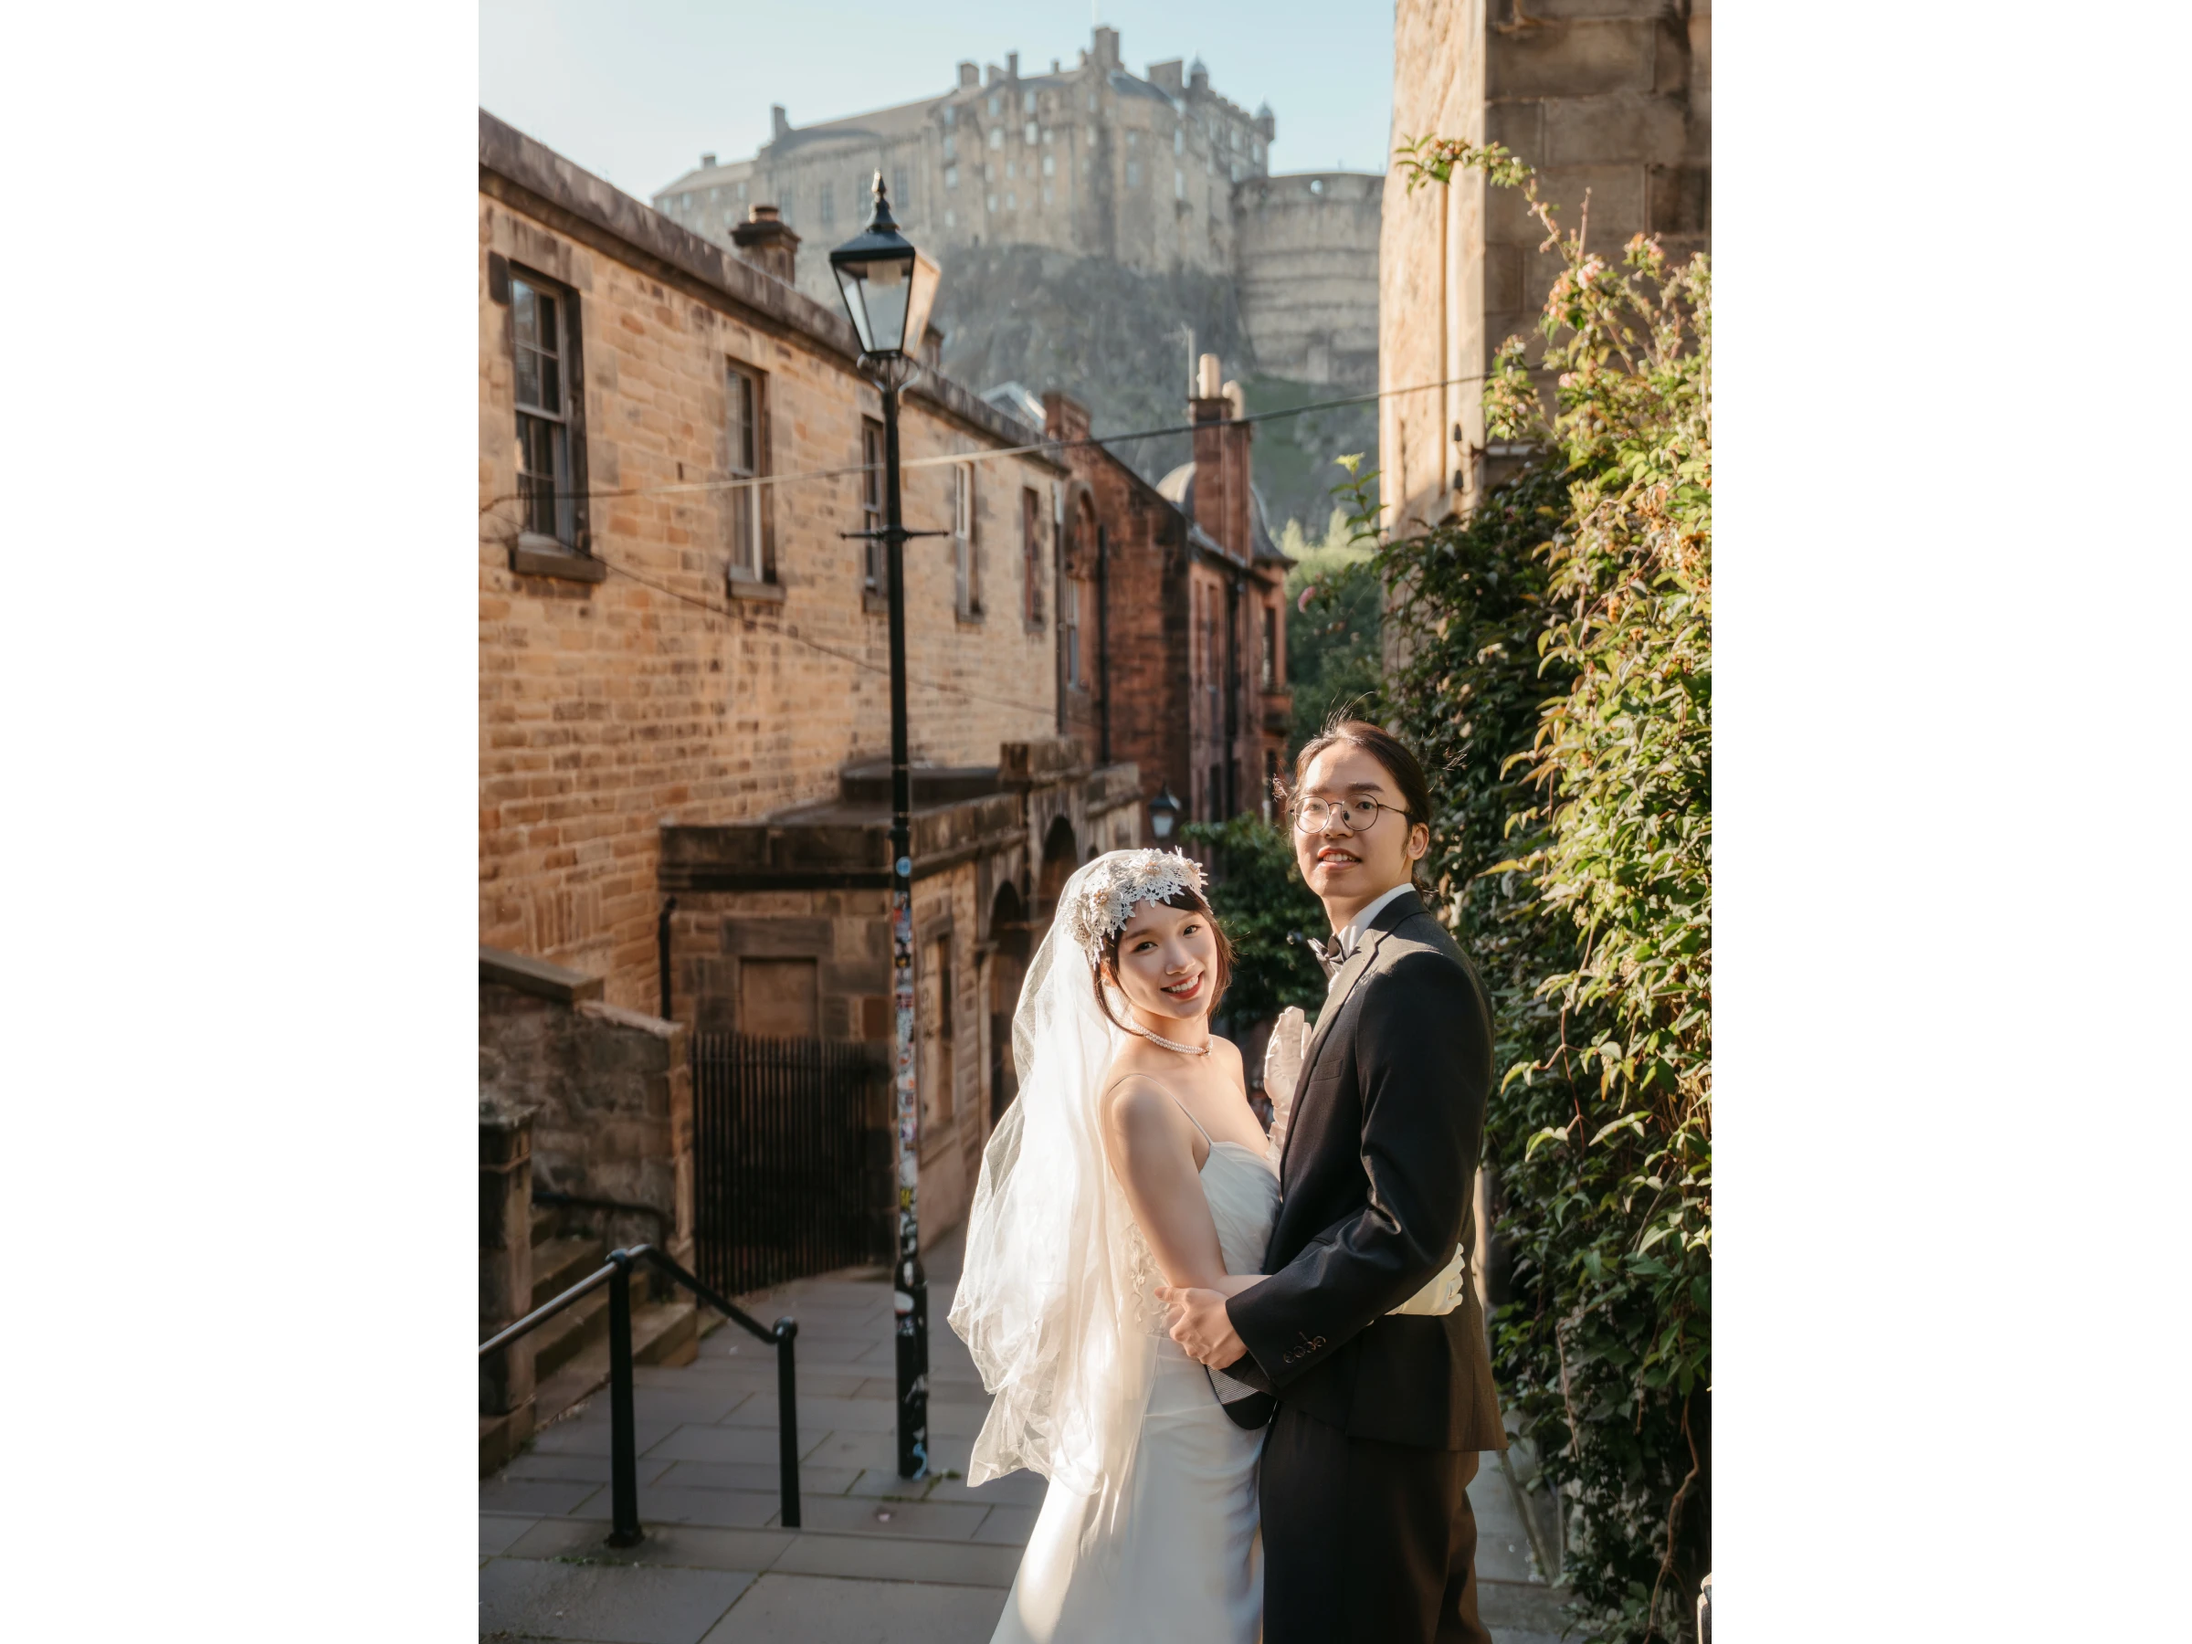
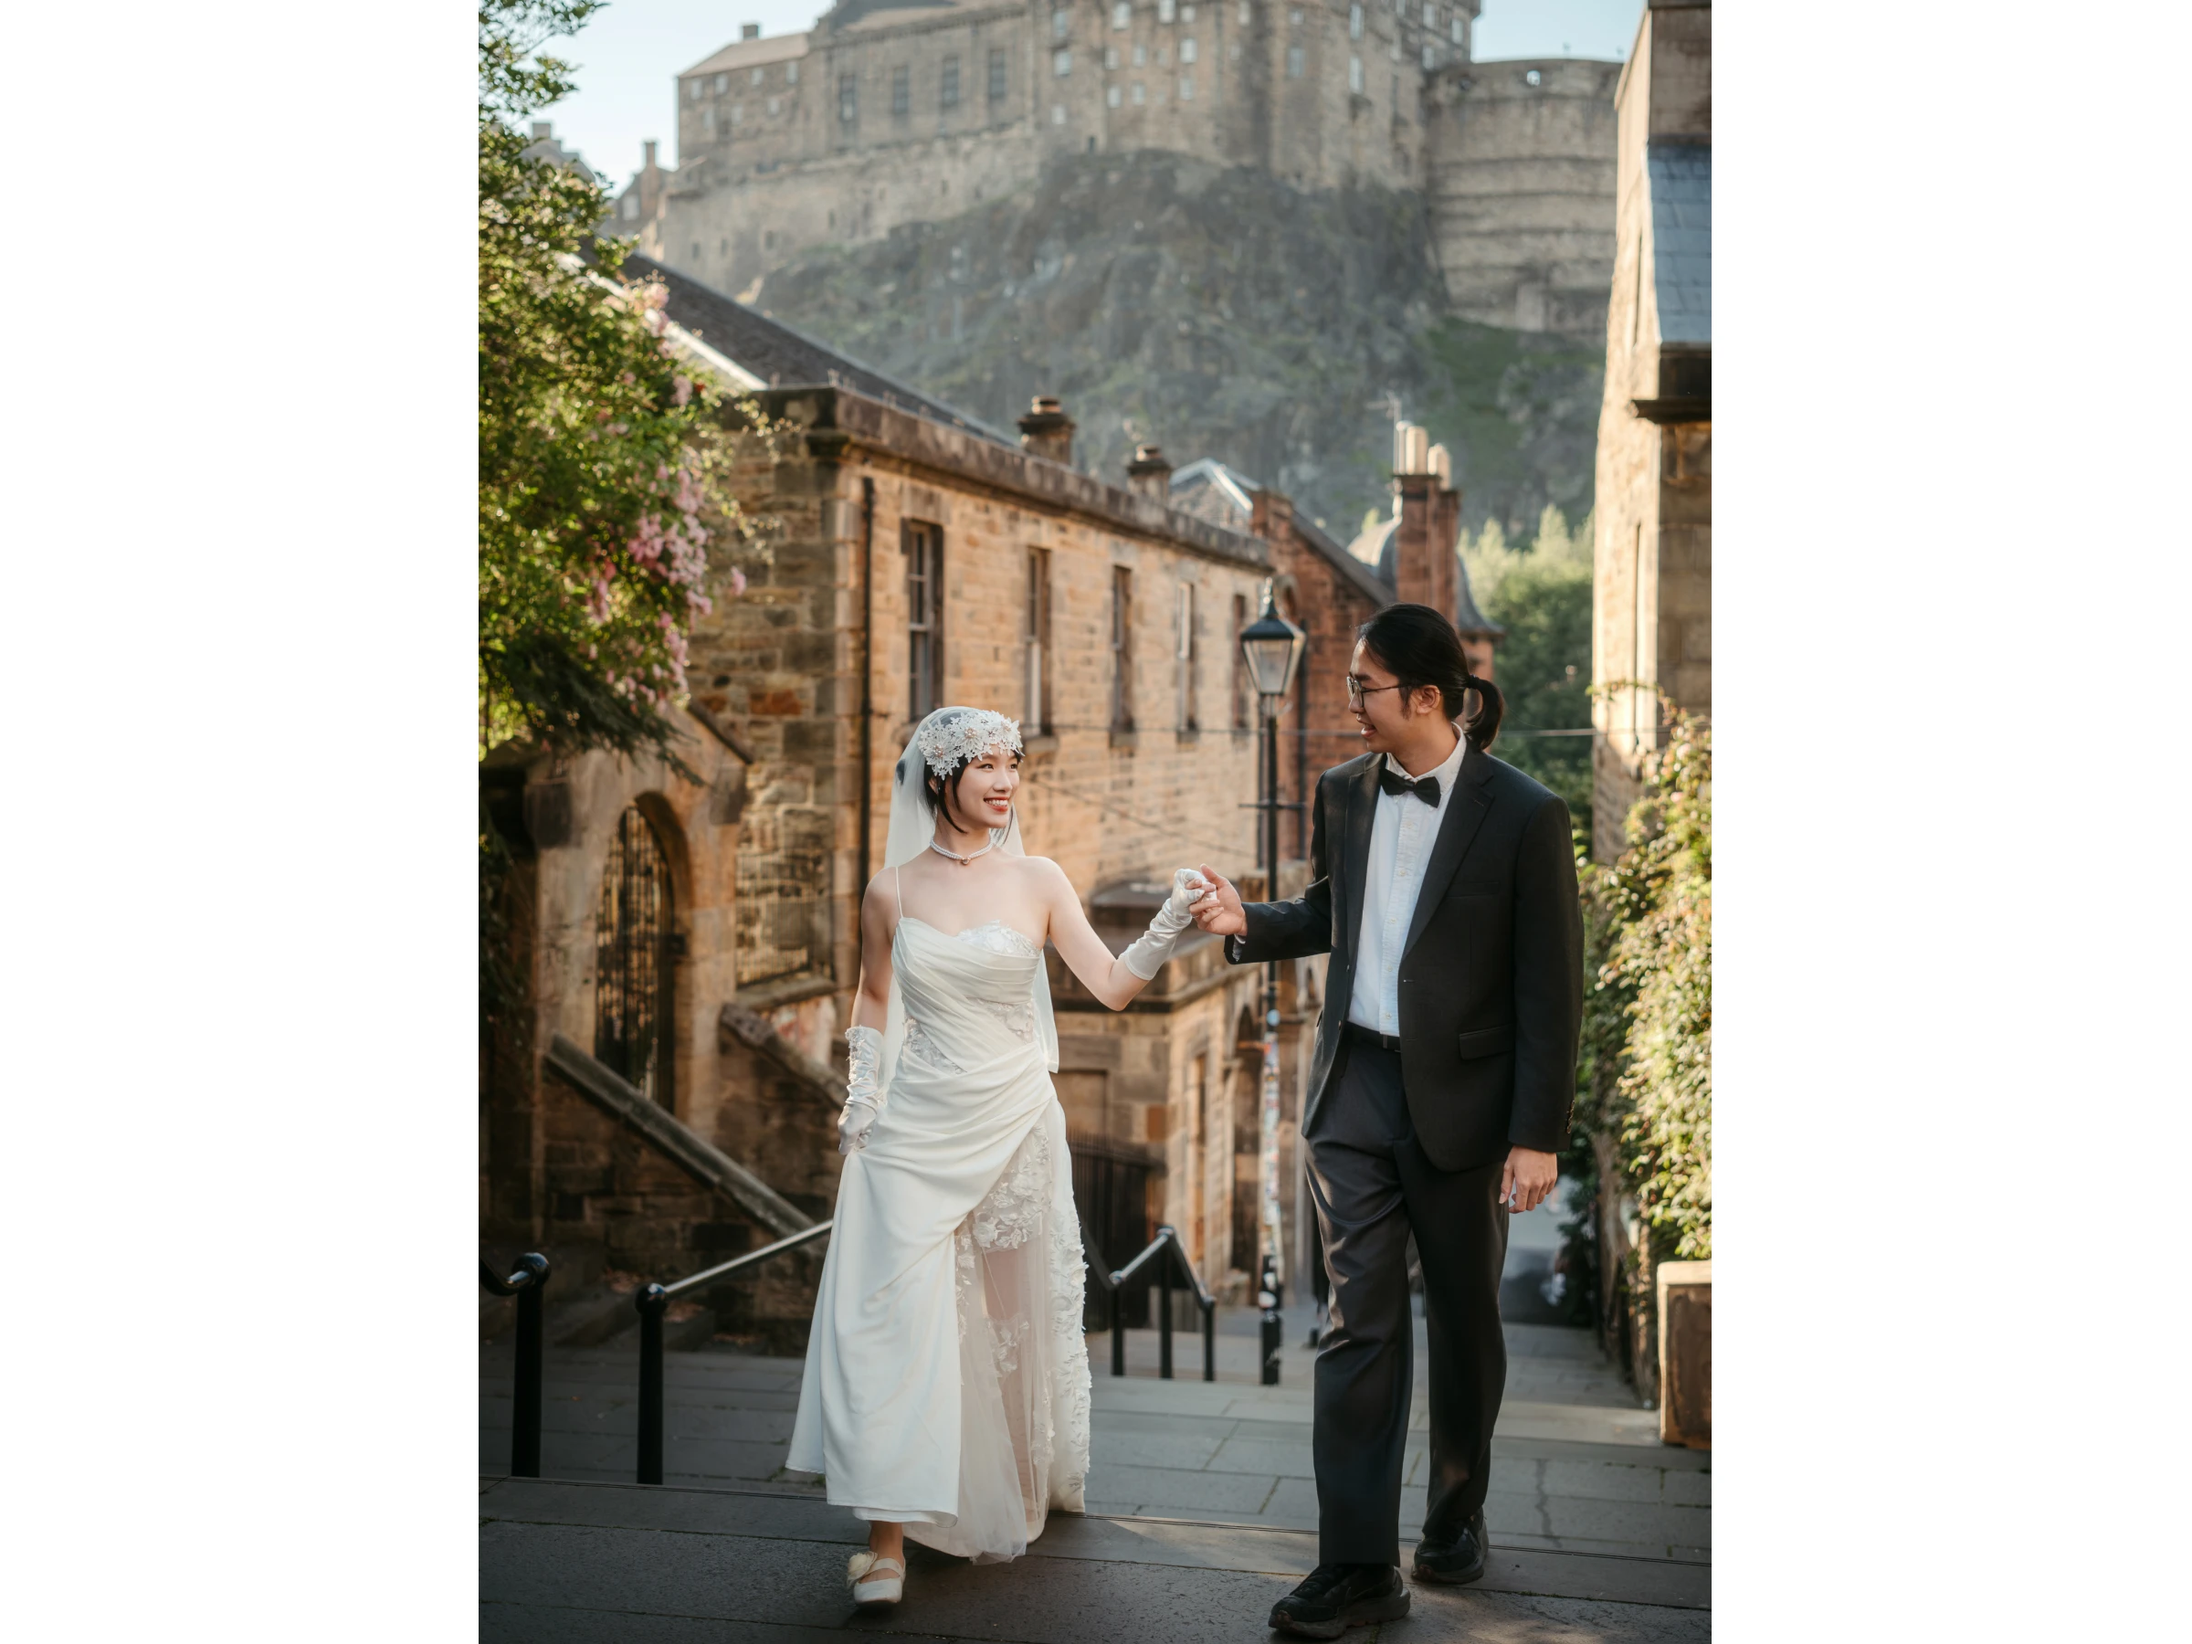
Image assets updated

diff --git a/js/data/locations.js b/js/data/locations.js
@@ -81,7 +81,7 @@ export const locations = [
     duration: 15,
     traffic: '适中',
     openingTimes: '全天开放',
-    images: ['assets/cockburn-street/cockburn_street_1_2x.webp', 'assets/cockburn-street/cockburn_street_2_2x.webp']
+    images: ['assets/cockburn-street/cockburn_street_1_2x.webp']
   },
 
   {
@@ -96,7 +96,7 @@ export const locations = [
     duration: 60,
     traffic: '适中',
     openingTimes: '全天开放',
-    images: ['assets/dean-village/dean_village_1_2x.webp', 'assets/dean-village/dean_village_2_2x.webp', 'assets/dean-village/dean_village_3_2x.webp']
+    images: ['assets/dean-village/dean_village_1_2x.webp', 'assets/dean-village/dean_village_2_2x.webp', 'assets/dean-village/dean_village_3_2x.webp', 'assets/dean-village/dean_village_4_2x.webp', 'assets/dean-village/dean_village_5_2x.webp']
   },
 
   {
@@ -126,7 +126,7 @@ export const locations = [
     duration: 120,
     traffic: '较小',
     openingTimes: '全天开放',
-    images: ['assets/holyrood-park/holyrood_park_1_2x.webp', 'assets/holyrood-park/holyrood_park_2_2x.webp', 'assets/holyrood-park/holyrood_park_3_2x.webp']
+    images: ['assets/holyrood-park/holyrood_park_1_2x.webp', 'assets/holyrood-park/holyrood_park_2_2x.webp', 'assets/holyrood-park/holyrood_park_3_2x.webp', 'assets/holyrood-park/holyrood_park_4_2x.webp', 'assets/holyrood-park/holyrood_park_5_2x.webp']
   },
 
   {
@@ -156,7 +156,7 @@ export const locations = [
     duration: 30,
     traffic: '较小',
     openingTimes: '需要提前查询',
-    images: ['assets/old-college/old_college_1_2x.webp', 'assets/old-college/old_college_2_2x.webp']
+    images: ['assets/old-college/old_college_1_2x.webp', 'assets/old-college/old_college_2_2x.webp', 'assets/old-college/old_college_3_2x.webp']
   },
 
   {
@@ -171,7 +171,7 @@ export const locations = [
     duration: 120,
     traffic: '适中',
     openingTimes: '全天开放',
-    images: ['assets/portobello-beach/portobello_beach_1_2x.webp', 'assets/portobello-beach/portobello_beach_2_2x.webp', 'assets/portobello-beach/portobello_beach_3_2x.webp']
+    images: ['assets/portobello-beach/portobello_beach_1_2x.webp', 'assets/portobello-beach/portobello_beach_2_2x.webp']
   },
 
   {
@@ -201,7 +201,7 @@ export const locations = [
     duration: 30,
     traffic: '较大',
     openingTimes: '早上7点开放，闭园时间全年有所调整',
-    images: ['assets/scott-monument/scott_monument_1_2x.webp', 'assets/scott-monument/scott_monument_2_2x.webp']
+    images: ['assets/scott-monument/scott_monument_1_2x.webp', 'assets/scott-monument/scott_monument_2_2x.webp', 'assets/scott-monument/scott_monument_3_2x.webp']
   },
 
   {
@@ -261,7 +261,7 @@ export const locations = [
     duration: 30,
     traffic: '适中',
     openingTimes: '全天开放',
-    images: ['assets/the-vennel/the_vennel_1_2x.webp', 'assets/the-vennel/the_vennel_2_2x.webp']
+    images: ['assets/the-vennel/the_vennel_1_2x.webp', 'assets/the-vennel/the_vennel_2_2x.webp', 'assets/the-vennel/the_vennel_3_2x.webp']
   },
 
   {
@@ -276,7 +276,7 @@ export const locations = [
     duration: 15,
     traffic: '适中',
     openingTimes: '外部全天开放',
-    images: ['assets/the-writers-museum/the_writers_museum_1_2x.webp', 'assets/the-writers-museum/the_writers_museum_2_2x.webp']
+    images: ['assets/the-writers-museum/the_writers_museum_1_2x.webp', 'assets/the-writers-museum/the_writers_museum_2_2x.webp', 'assets/the-writers-museum/the_writers_museum_3_2x.webp']
   },
 
   {
@@ -291,7 +291,7 @@ export const locations = [
     duration: 30,
     traffic: '较大',
     openingTimes: '全天开放',
-    images: ['assets/victoria-street/victoria_street_1_2x.webp', 'assets/victoria-street/victoria_street_2_2x.webp']
+    images: ['assets/victoria-street/victoria_street_1_2x.webp']
   },
 
   {

diff --git a/index.html b/index.html
@@ -3,7 +3,7 @@
 <head>
   <meta charset="UTF-8">
   <meta name="viewport" content="width=device-width, initial-scale=1.0">
-  <title>Edinburgh Shoot Planner — Studio Slowecho</title>
+  <title>爱丁堡拍摄选点册 — Coral & Jiaxi Photography</title>
 
   <link rel="stylesheet" href="https://unpkg.com/leaflet@1.9.4/dist/leaflet.css">
   <link rel="stylesheet" href="https://fonts.googleapis.com/css2?family=EB+Garamond:ital,wght@0,400;0,500;0,600;1,400&family=DM+Sans:opsz,wght@9..40,400;9..40,500;9..40,600&family=Material+Symbols+Outlined:opsz,wght,FILL,GRAD@20..48,100..700,0..1,0&display=swap">
